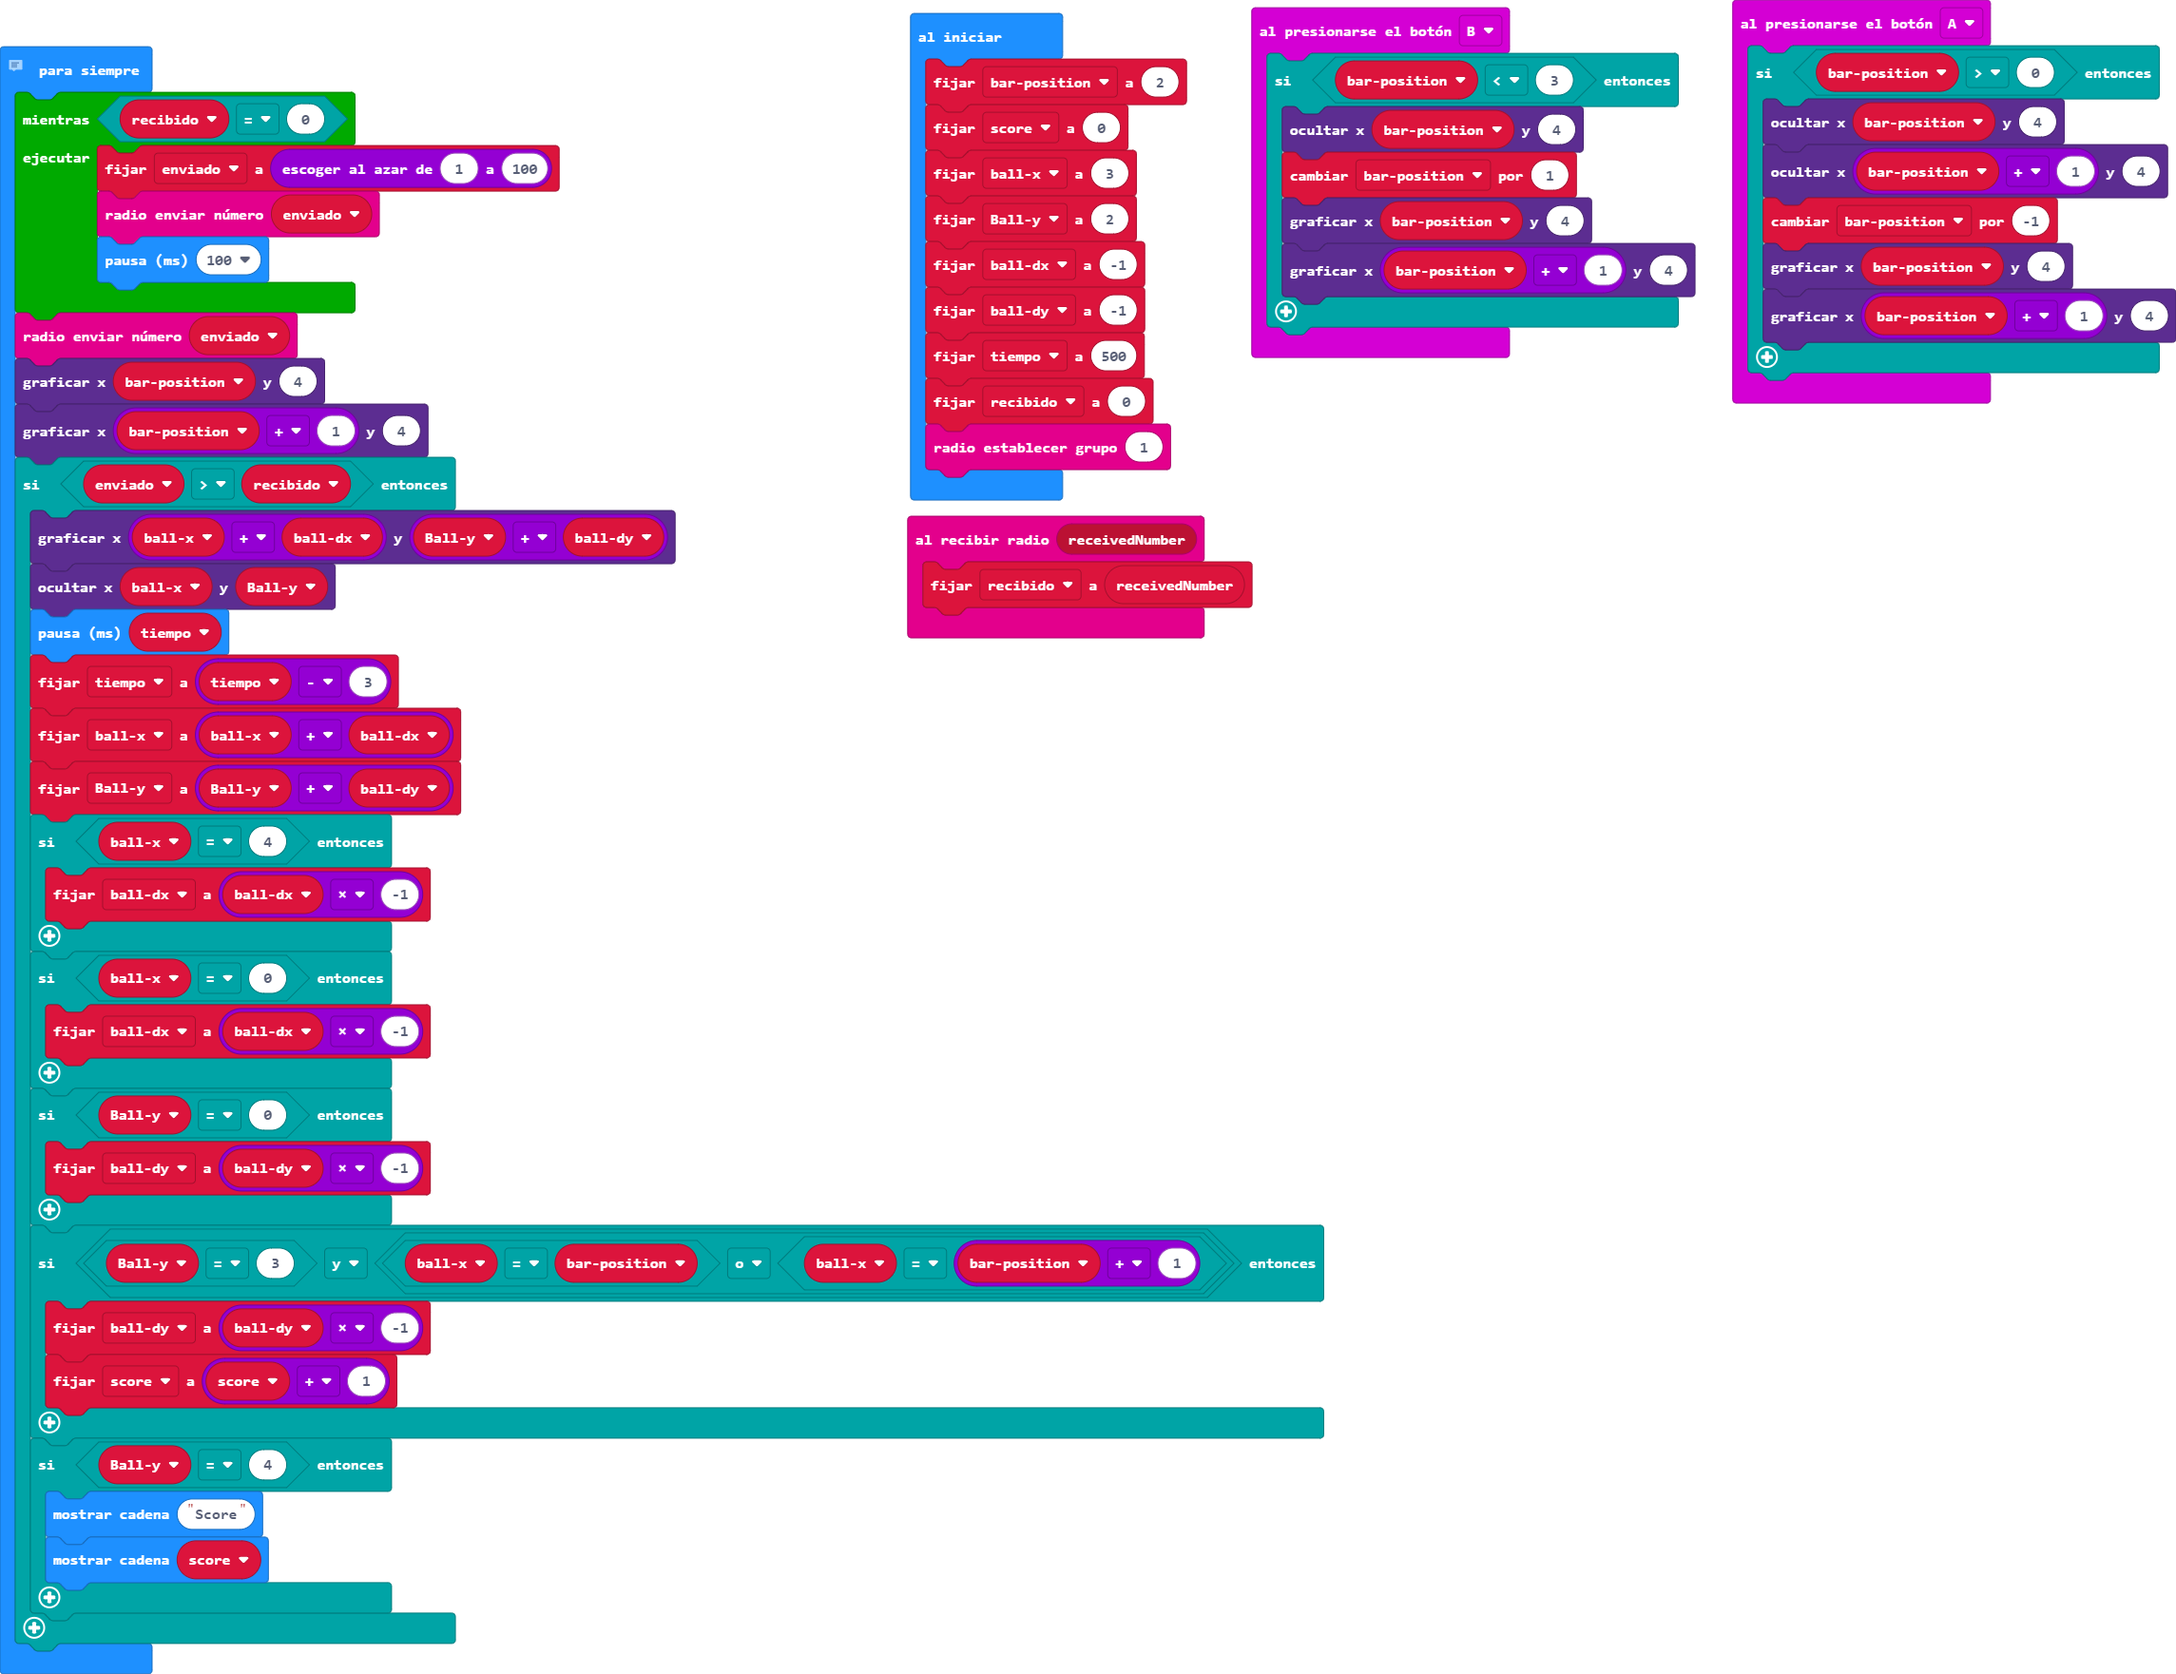
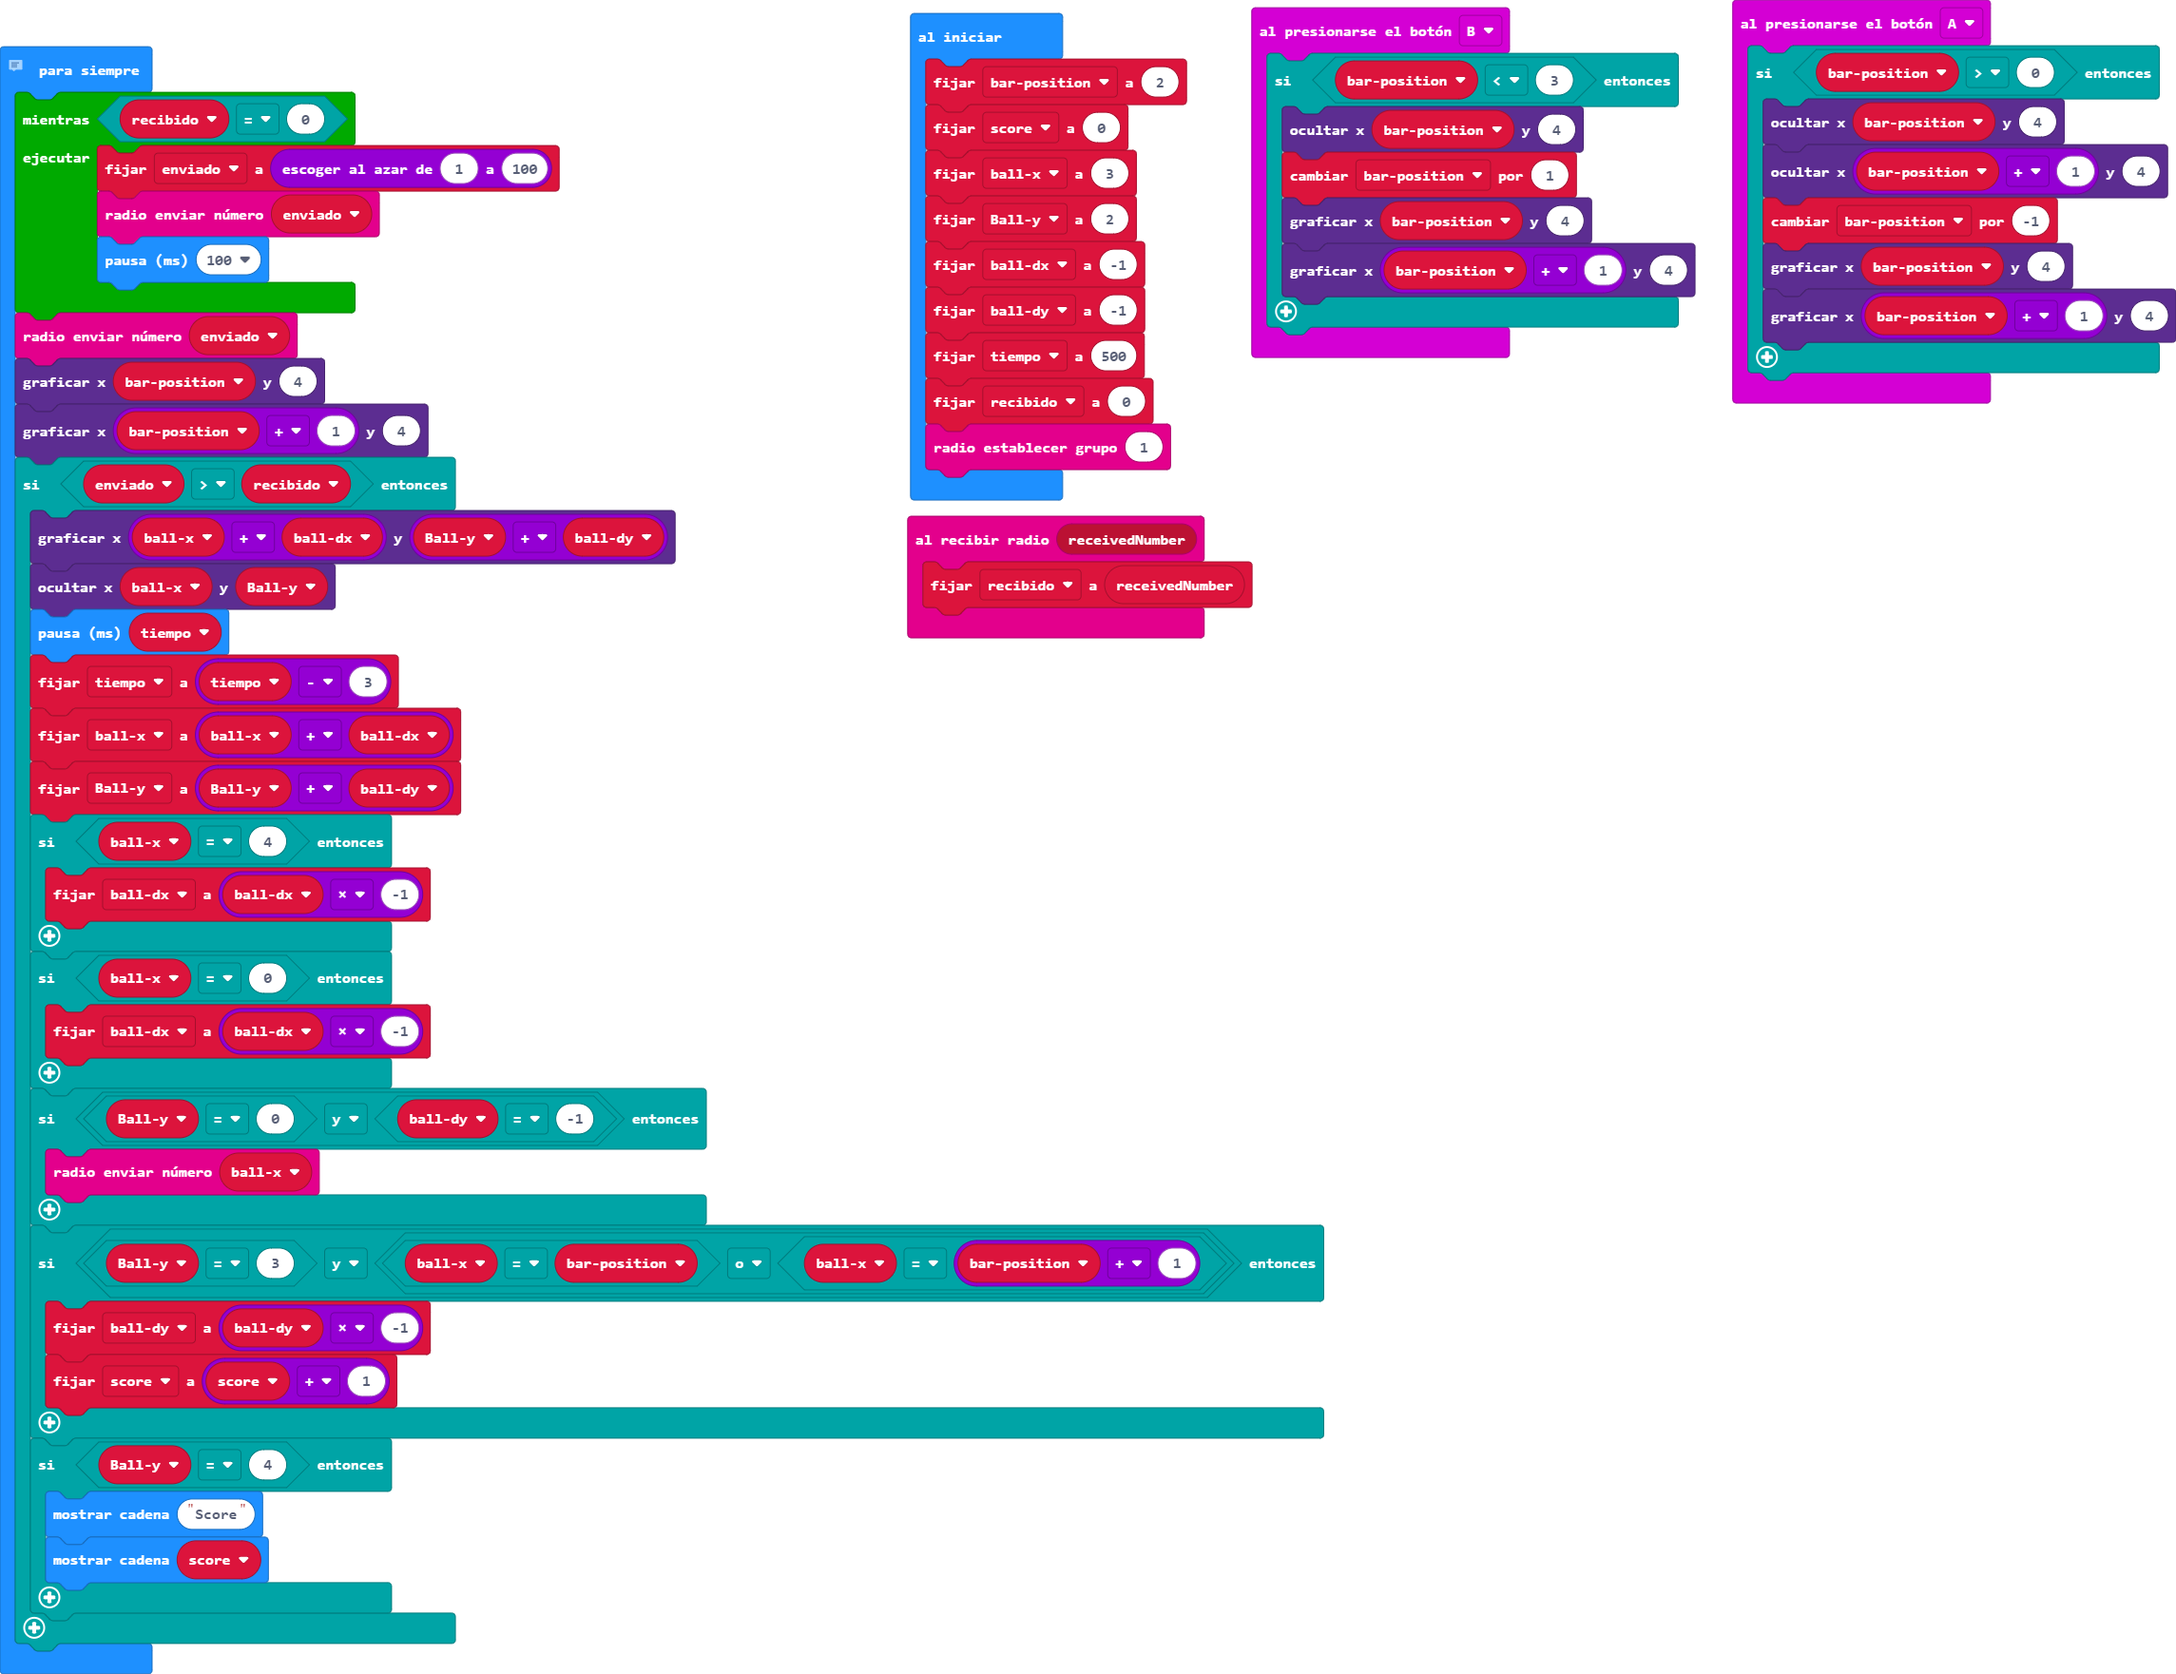
xx

Changed region(s): [[0.0, 0.6246, 0.3412, 0.7496]]

diff --git a/main.ts b/main.ts
@@ -56,8 +56,8 @@ basic.forever(function () {
         if (ballx == 0) {
             balldx = balldx * -1
         }
-        if (Bally == 0) {
-            balldy = balldy * -1
+        if (Bally == 0 && balldy == -1) {
+            radio.sendNumber(ballx)
         }
         if (Bally == 3 && (ballx == barposition || ballx == barposition + 1)) {
             balldy = balldy * -1
